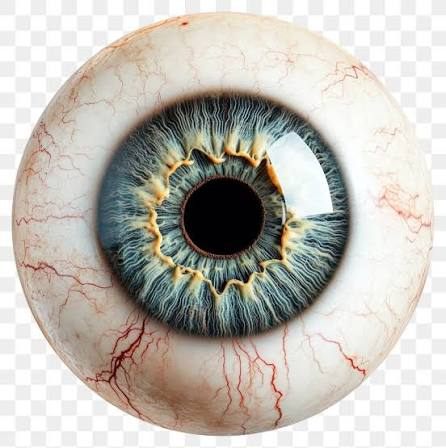
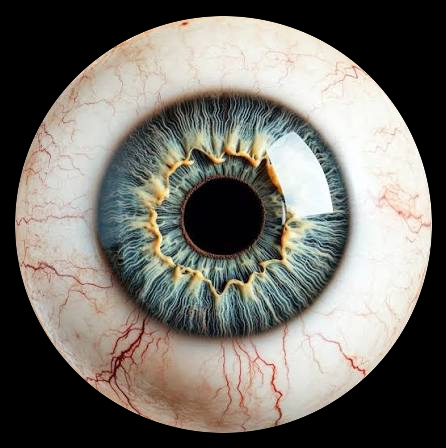
working: eye animations

diff --git a/lib/Display/eye.c b/lib/Display/eye.c
@@ -1,0 +1,201 @@
+#include "eye.h"
+#include <math.h>
+
+#define EYE_PI            3.14159265f
+#define EYE_COLOR         0xFFFFFF
+#define EYE_STROKE        3
+#define EYE_HALF_WIDTH    100   // corner to centre, horizontally
+#define EYE_UPPER_LID_H   55    // how far each lid bows away from the corner-to-corner line
+#define EYE_CREASE_H      38
+#define EYE_LOWER_LID_H   35
+#define EYE_LID_PTS       40
+#define EYE_PUPIL_R       16
+#define EYE_LASH_COUNT    10
+#define EYE_LASH_GAP      6
+#define EYE_LASH_LEN      10
+
+// Pupil path: swings EYE_LOOK_X either side of centre, dipping EYE_LOOK_SAG px lower in the middle
+#define EYE_LOOK_X        50
+#define EYE_LOOK_SAG      8
+#define EYE_LOOK_MS       1500
+#define EYE_LOOK_PAUSE_MS 400
+
+// Blink: the upper lid bows down until it lies on the lower lid, then lifts again
+#define EYE_BLINK_MS       200
+#define EYE_BLINK_HOLD_MS  60
+#define EYE_BLINK_PAUSE_MS 3000
+
+enum { EYE_LID_UPPER, EYE_LID_CREASE, EYE_LID_LOWER, EYE_LID_COUNT };
+
+// lv_line keeps a pointer to its points, so they must outlive the lines
+static lv_point_precise_t eye_lids[EYE_LID_COUNT][EYE_LID_PTS];
+static lv_point_precise_t eye_lashes[EYE_LASH_COUNT][2];
+
+// Shared between the pupil and blink animations so each can re-clip the pupil against the lid
+static struct {
+    lv_obj_t* upper_lid;
+    lv_obj_t* pupil_clip;
+    lv_obj_t* pupil;
+    float pupil_x;
+    float pupil_y;
+    float lid_h;  // signed: positive bows up, negative bows down
+} eye_state;
+
+static lv_obj_t* eye_create_line(lv_point_precise_t* pts, uint32_t count) {
+    lv_obj_t* line = lv_line_create(lv_screen_active());
+    lv_line_set_points(line, pts, count);
+    lv_obj_set_style_line_width(line, EYE_STROKE, 0);
+    lv_obj_set_style_line_color(line, lv_color_hex(EYE_COLOR), 0);
+    lv_obj_set_style_line_rounded(line, true, 0);
+    return line;
+}
+
+static void eye_draw_lid(lv_point_precise_t* pts, float cx, float cy, float height, bool bulge_up,
+                             float* out_cy, float* out_r, float* out_half_rad) {
+    float r = (EYE_HALF_WIDTH * EYE_HALF_WIDTH + height * height) / (2 * height);
+    float half = asinf(EYE_HALF_WIDTH / r);
+    // An upward bow is the top of a circle centred below the eye, and vice versa
+    float circle_cy = bulge_up ? cy + (r - height) : cy - (r - height);
+    float mid = bulge_up ? 3 * EYE_PI / 2 : EYE_PI / 2;
+
+    for (int i = 0; i < EYE_LID_PTS; i++) {
+        float a = mid - half + 2 * half * i / (EYE_LID_PTS - 1);
+        pts[i].x = lroundf(cx + r * cosf(a));
+        pts[i].y = lroundf(circle_cy + r * sinf(a));
+    }
+    eye_create_line(pts, EYE_LID_PTS);
+
+    if (out_cy) *out_cy = circle_cy;
+    if (out_r) *out_r = r;
+    if (out_half_rad) *out_half_rad = half;
+}
+
+// Screen y of a corner-to-corner arc at horizontal offset dx from the centre. Sampled by x rather
+// than angle so the height can pass through zero (a flat line) while animating.
+static float eye_lid_y(float dx, float cy, float height) {
+    float h = fabsf(height);
+    if (h < 0.5f) {
+        return cy;
+    }
+    if (dx > EYE_HALF_WIDTH) dx = EYE_HALF_WIDTH;
+    if (dx < -EYE_HALF_WIDTH) dx = -EYE_HALF_WIDTH;
+    float r = (EYE_HALF_WIDTH * EYE_HALF_WIDTH + h * h) / (2 * h);
+    float bow = sqrtf(r * r - dx * dx) - (r - h);
+    return height > 0 ? cy - bow : cy + bow;
+}
+
+// Hides whatever part of the pupil sits above the upper lid by moving the clip container's top edge
+// to the lid. The edge is flat, so it follows the lid at the pupil's centre only.
+static void eye_update_pupil() {
+    float cx = DISPLAY_H_RES / 2.0f;
+    float cy = DISPLAY_V_RES / 2.0f;
+    int32_t top = lroundf(eye_lid_y(eye_state.pupil_x - cx, cy, eye_state.lid_h));
+
+    lv_obj_set_pos(eye_state.pupil_clip, 0, top);
+    lv_obj_set_size(eye_state.pupil_clip, DISPLAY_H_RES, DISPLAY_V_RES - top);
+    lv_obj_set_pos(eye_state.pupil, lroundf(eye_state.pupil_x - EYE_PUPIL_R),
+                   lroundf(eye_state.pupil_y - EYE_PUPIL_R) - top);
+}
+
+static void eye_pupil_anim_cb(void* var, int32_t v) {
+    LV_UNUSED(var);
+    float t = v / 1000.0f;
+    eye_state.pupil_x = DISPLAY_H_RES / 2.0f + EYE_LOOK_X * t;
+    eye_state.pupil_y = DISPLAY_V_RES / 2.0f + EYE_LOOK_SAG * (1 - t * t);
+    eye_update_pupil();
+}
+
+// v runs from 0 (open) to 1000 (closed, lying on the lower lid)
+static void eye_blink_anim_cb(void* var, int32_t v) {
+    float t = v / 1000.0f;
+    float cx = DISPLAY_H_RES / 2.0f;
+    float cy = DISPLAY_V_RES / 2.0f;
+    lv_point_precise_t* pts = eye_lids[EYE_LID_UPPER];
+
+    eye_state.lid_h = EYE_UPPER_LID_H + (-EYE_LOWER_LID_H - EYE_UPPER_LID_H) * t;
+    for (int i = 0; i < EYE_LID_PTS; i++) {
+        float dx = -EYE_HALF_WIDTH + 2.0f * EYE_HALF_WIDTH * i / (EYE_LID_PTS - 1);
+        pts[i].x = lroundf(cx + dx);
+        pts[i].y = lroundf(eye_lid_y(dx, cy, eye_state.lid_h));
+    }
+    // Re-setting the points makes the line recompute its size and redraw
+    lv_line_set_points((lv_obj_t*)var, pts, EYE_LID_PTS);
+    eye_update_pupil();
+}
+
+esp_err_t display_draw_eye() {
+    if (lv_display_get_default() == NULL) {
+        return ESP_ERR_INVALID_STATE;
+    }
+
+    lv_obj_t* screen = lv_screen_active();
+    float cx = DISPLAY_H_RES / 2.0f;
+    float cy = DISPLAY_V_RES / 2.0f;
+
+    eye_draw_lid(eye_lids[EYE_LID_CREASE], cx, cy, EYE_CREASE_H, true, NULL, NULL, NULL);
+
+    float lower_cy, lower_r, lower_half;
+    eye_draw_lid(eye_lids[EYE_LID_LOWER], cx, cy, EYE_LOWER_LID_H, false, &lower_cy, &lower_r, &lower_half);
+
+    // Children are clipped to their parent, so the pupil lives in a transparent box whose top edge tracks the lid
+    lv_obj_t* pupil_clip = lv_obj_create(screen);
+    lv_obj_remove_style_all(pupil_clip);
+    lv_obj_remove_flag(pupil_clip, LV_OBJ_FLAG_SCROLLABLE | LV_OBJ_FLAG_CLICKABLE);
+
+    lv_obj_t* pupil = lv_obj_create(pupil_clip);
+    lv_obj_remove_style_all(pupil);
+    lv_obj_set_size(pupil, EYE_PUPIL_R * 2, EYE_PUPIL_R * 2);
+    lv_obj_set_style_radius(pupil, LV_RADIUS_CIRCLE, 0);
+    lv_obj_set_style_bg_color(pupil, lv_color_hex(EYE_COLOR), 0);
+    lv_obj_set_style_bg_opa(pupil, LV_OPA_COVER, 0);
+
+    eye_state.pupil_clip = pupil_clip;
+    eye_state.pupil = pupil;
+    eye_state.upper_lid = eye_create_line(eye_lids[EYE_LID_UPPER], 0);
+    eye_state.lid_h = EYE_UPPER_LID_H;
+    eye_state.pupil_x = cx - EYE_LOOK_X;
+    eye_state.pupil_y = cy;
+    eye_blink_anim_cb(eye_state.upper_lid, 0);
+    eye_pupil_anim_cb(pupil, -1000);
+
+    lv_anim_t blink;
+    lv_anim_init(&blink);
+    lv_anim_set_var(&blink, eye_state.upper_lid);
+    lv_anim_set_exec_cb(&blink, eye_blink_anim_cb);
+    lv_anim_set_values(&blink, 0, 1000);
+    lv_anim_set_duration(&blink, EYE_BLINK_MS);
+    lv_anim_set_reverse_duration(&blink, EYE_BLINK_MS);
+    lv_anim_set_reverse_delay(&blink, EYE_BLINK_HOLD_MS);
+    lv_anim_set_delay(&blink, EYE_BLINK_PAUSE_MS);
+    lv_anim_set_repeat_delay(&blink, EYE_BLINK_PAUSE_MS);
+    lv_anim_set_repeat_count(&blink, LV_ANIM_REPEAT_INFINITE);
+    lv_anim_set_path_cb(&blink, lv_anim_path_ease_in_out);
+    lv_anim_start(&blink);
+
+    lv_anim_t anim;
+    lv_anim_init(&anim);
+    lv_anim_set_var(&anim, pupil);
+    lv_anim_set_exec_cb(&anim, eye_pupil_anim_cb);
+    lv_anim_set_values(&anim, -1000, 1000);
+    lv_anim_set_duration(&anim, EYE_LOOK_MS);
+    lv_anim_set_reverse_duration(&anim, EYE_LOOK_MS);
+    lv_anim_set_reverse_delay(&anim, EYE_LOOK_PAUSE_MS);
+    lv_anim_set_repeat_delay(&anim, EYE_LOOK_PAUSE_MS);
+    lv_anim_set_repeat_count(&anim, LV_ANIM_REPEAT_INFINITE);
+    lv_anim_set_path_cb(&anim, lv_anim_path_ease_in_out);
+    lv_anim_start(&anim);
+
+    // Lashes point straight out from the lower lid's circle, spread along most of the lid
+    float span = lower_half * 0.85f;
+    for (int i = 0; i < EYE_LASH_COUNT; i++) {
+        float a = EYE_PI / 2 - span + 2 * span * i / (EYE_LASH_COUNT - 1);
+        float dx = cosf(a);
+        float dy = sinf(a);
+        float inner = lower_r + EYE_LASH_GAP;
+        float outer = inner + EYE_LASH_LEN;
+        eye_lashes[i][0] = (lv_point_precise_t){lroundf(cx + dx * inner), lroundf(lower_cy + dy * inner)};
+        eye_lashes[i][1] = (lv_point_precise_t){lroundf(cx + dx * outer), lroundf(lower_cy + dy * outer)};
+        eye_create_line(eye_lashes[i], 2);
+    }
+    return ESP_OK;
+}

diff --git a/lib/Display/display.c b/lib/Display/display.c
@@ -43,11 +43,14 @@ esp_err_t display_init() {
     lv_init();
     lv_tick_set_cb(display_tick_cb);
 
-    display = lv_ili9341_create(DISPLAY_H_RES, DISPLAY_V_RES, LV_LCD_FLAG_BGR, display_send_cmd, display_send_color);
+    display = lv_ili9341_create(DISPLAY_H_RES, DISPLAY_V_RES, LV_LCD_FLAG_NONE, display_send_cmd, display_send_color);
     if (display == NULL) {
         ESP_LOGE(TAG, "Failed to create ILI9341 display");
         return ESP_FAIL;
     }
+    // This module scans with rows and columns transposed and RGB order compared to
+    // LVGL's ILI9341 defaults, so set MADCTL's swap bit and leave BGR off.
+    lv_lcd_generic_mipi_set_address_mode(display, false, false, true, false);
 
     uint8_t* draw_buf = heap_caps_malloc(DISPLAY_DRAW_BUF_SIZE, MALLOC_CAP_DMA);
     if (draw_buf == NULL) {
@@ -75,6 +78,25 @@ esp_err_t display_show_image(const char* path) {
     //lv_obj_set_style_bg_color(screen, lv_color_hex(0xffffff), 0);
     lv_obj_t* img = lv_image_create(screen);
     lv_image_set_src(img, path);
-    // lv_obj_center(img);
+    lv_obj_center(img);
+    return ESP_OK;
+}
+
+static void display_draw_rect(int32_t x, int32_t y, int32_t w, int32_t h, uint32_t rgb) {
+    lv_obj_t* rect = lv_obj_create(lv_screen_active());
+    lv_obj_remove_style_all(rect);
+    lv_obj_set_pos(rect, x, y);
+    lv_obj_set_size(rect, w, h);
+    lv_obj_set_style_bg_color(rect, lv_color_hex(rgb), 0);
+    lv_obj_set_style_bg_opa(rect, LV_OPA_COVER, 0);
+}
+
+esp_err_t display_show_test_pattern() {
+    if (display == NULL) {
+        return ESP_ERR_INVALID_STATE;
+    }
+
+    display_draw_rect(0, 0, 40, 120, 0xFF0000);
+    display_draw_rect(DISPLAY_H_RES - 120, DISPLAY_V_RES - 40, 120, 40, 0x00FF00);
     return ESP_OK;
 }

diff --git a/src/main.c b/src/main.c
@@ -10,6 +10,7 @@
 #include "sd_card.h"
 #include "spi.h"
 #include "display.h"
+#include "eye.h"
 
 #define DEBOUNCE_DELAY_US 200000ULL
 
@@ -94,7 +95,9 @@ void app_main() {
     if (err != ESP_OK) {
         ESP_LOGE(TAG, "Failed to initialize display, continuing without it");
     } else {
-        display_show_image("S:plant/eye_240.jpg");
+        //display_show_image("S:plant/eye.jpg");
+        //display_show_test_pattern();
+        display_draw_eye();
     }
 
     int moisture_level = 0;

diff --git a/lib/Display/display.h b/lib/Display/display.h
@@ -10,3 +10,8 @@ esp_err_t display_init();
 
 // path is an LVGL path into the SD card, e.g. "S:plant/eye_240.jpg"
 esp_err_t display_show_image(const char* path);
+
+// Orientation/colour check: tall red bar at top-left, wide green bar at bottom-right.
+// Red showing as blue means the RGB/BGR order is wrong; bars rotated or in other
+// corners mean the axes are swapped or mirrored.
+esp_err_t display_show_test_pattern();

diff --git a/lib/Display/eye.h b/lib/Display/eye.h
@@ -1,0 +1,9 @@
+#pragma once
+#include "esp_err.h"
+#include "display.h"
+
+// Line-drawn eye centred on screen: upper lid, crease, lower lid with lashes, and a pupil
+// that keeps looking left and right along a curved path while the upper lid blinks every few
+// seconds. Requires display_init() to have
+// been called first, and lv_timer_handler() running for the animation.
+esp_err_t display_draw_eye();
